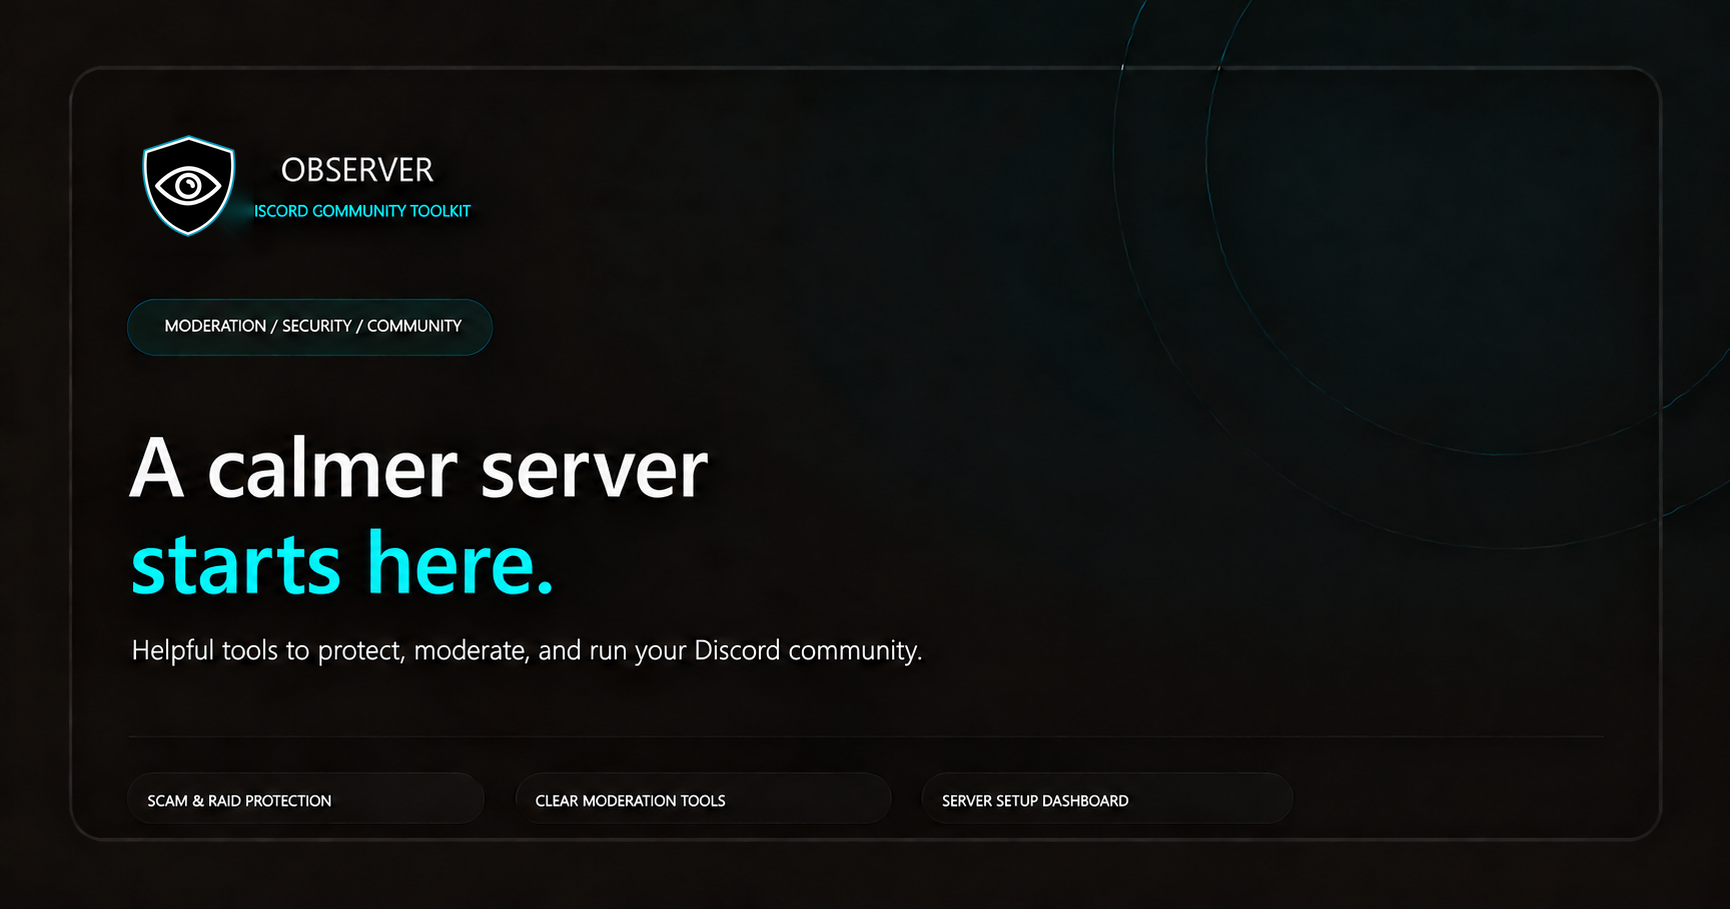
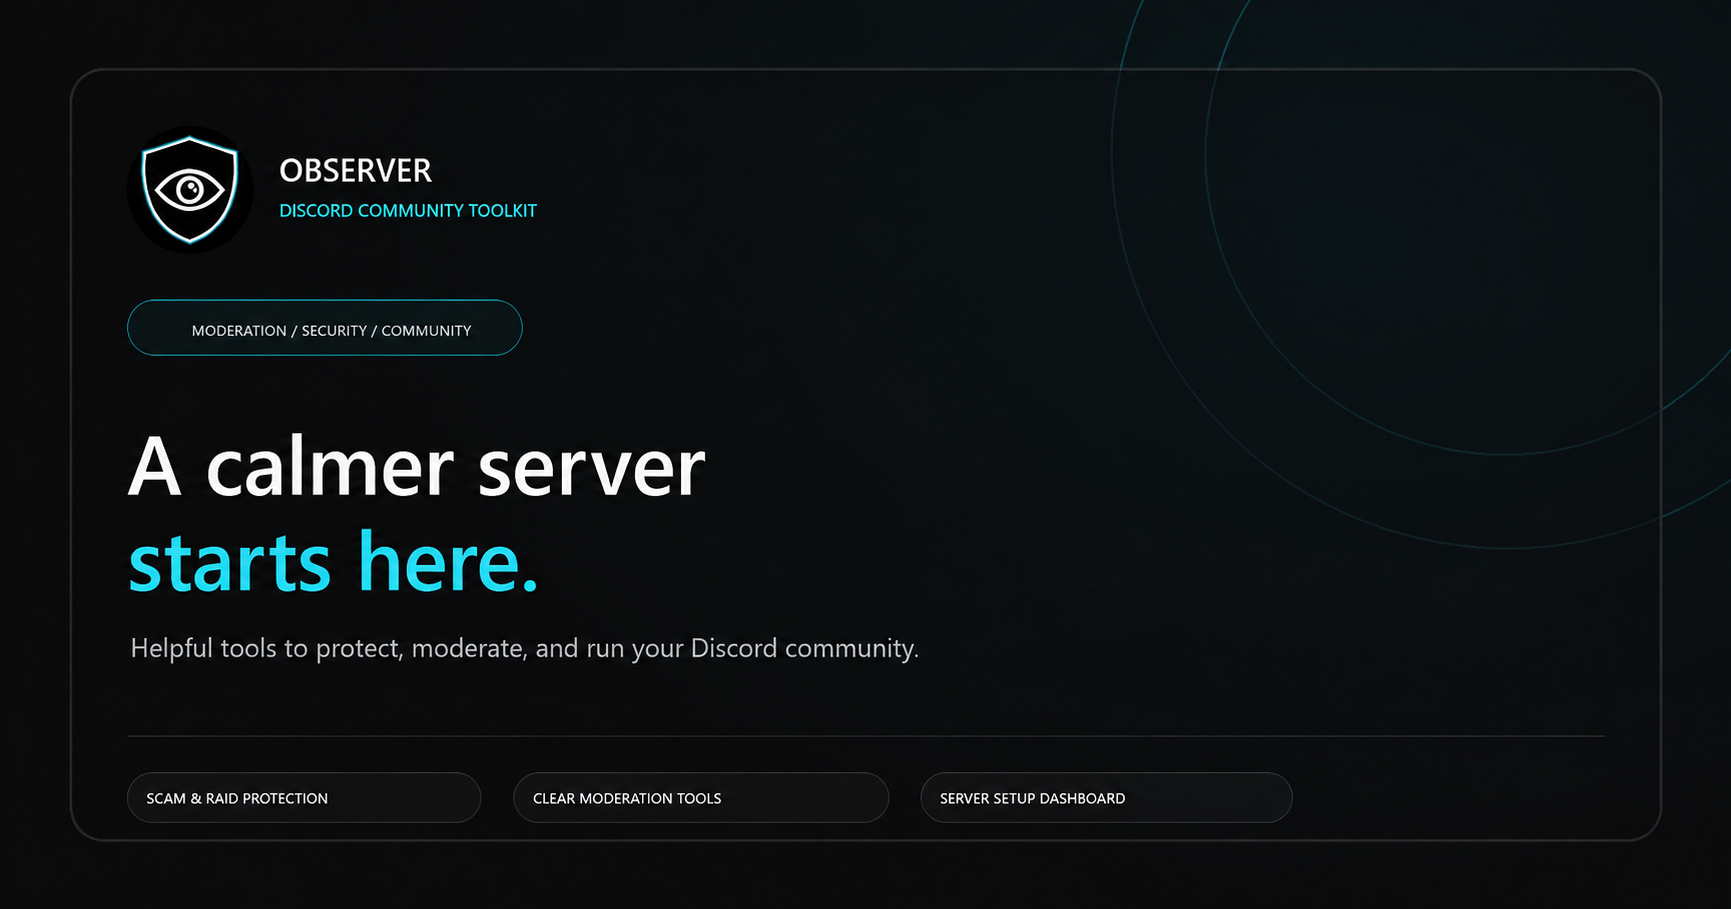
Use provided Discord preview card image

diff --git a/activity/index.html b/activity/index.html
@@ -13,8 +13,8 @@
     <meta property="og:url" content="https://observer-dashboard.observer/?share=1" />
     <meta property="og:title" content="Observer | A calmer Discord server" />
     <meta property="og:description" content="A modular Discord bot for moderation, reports, server safety, community tools, and web-based server configuration." />
-    <meta property="og:image" content="https://observer-dashboard.observer/og-card.png?v=7" />
-    <meta property="og:image:secure_url" content="https://observer-dashboard.observer/og-card.png?v=7" />
+    <meta property="og:image" content="https://observer-dashboard.observer/og-card.png?v=8" />
+    <meta property="og:image:secure_url" content="https://observer-dashboard.observer/og-card.png?v=8" />
     <meta property="og:image:type" content="image/png" />
     <meta property="og:image:width" content="1730" />
     <meta property="og:image:height" content="909" />
@@ -22,7 +22,7 @@
     <meta name="twitter:card" content="summary_large_image" />
     <meta name="twitter:title" content="Observer | A calmer Discord server" />
     <meta name="twitter:description" content="A modular Discord bot for moderation, reports, server safety, community tools, and web-based server configuration." />
-    <meta name="twitter:image" content="https://observer-dashboard.observer/og-card.png?v=7" />
+    <meta name="twitter:image" content="https://observer-dashboard.observer/og-card.png?v=8" />
     <title>Observer | Discord community tools</title>
   </head>
   <body>
